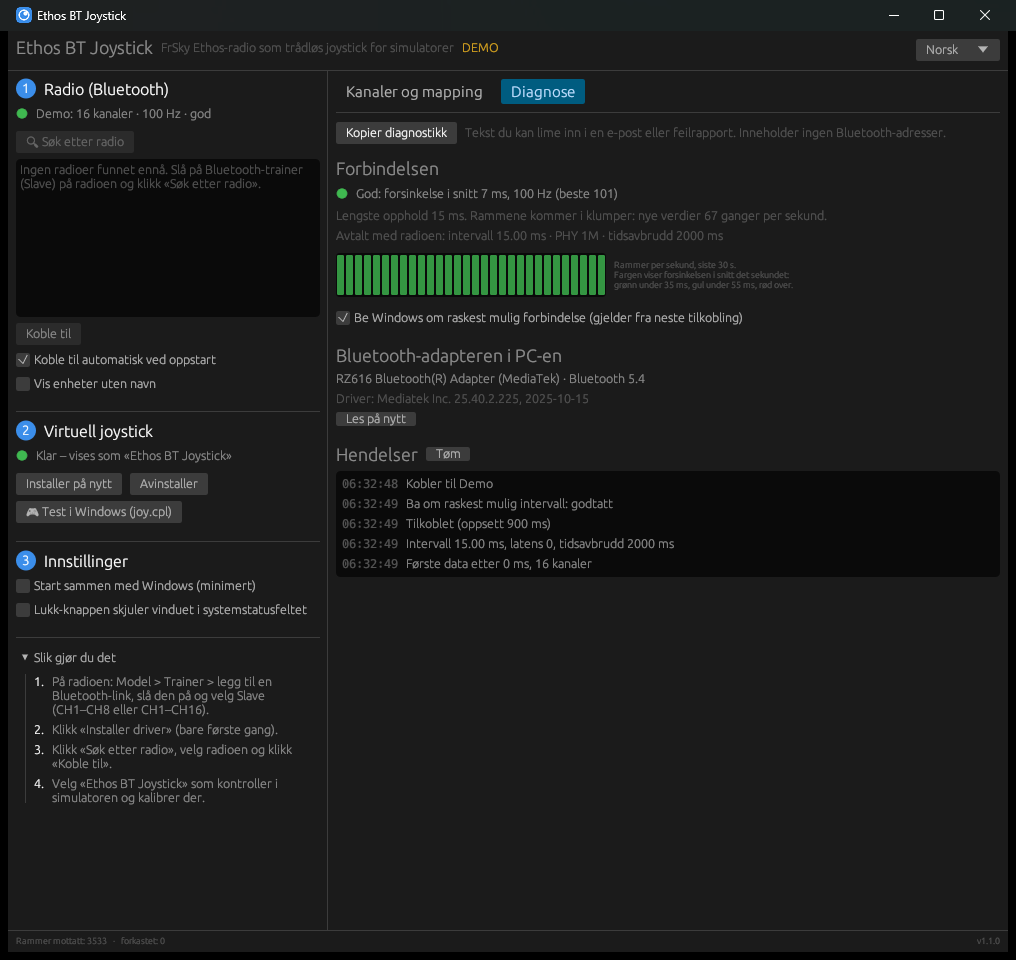
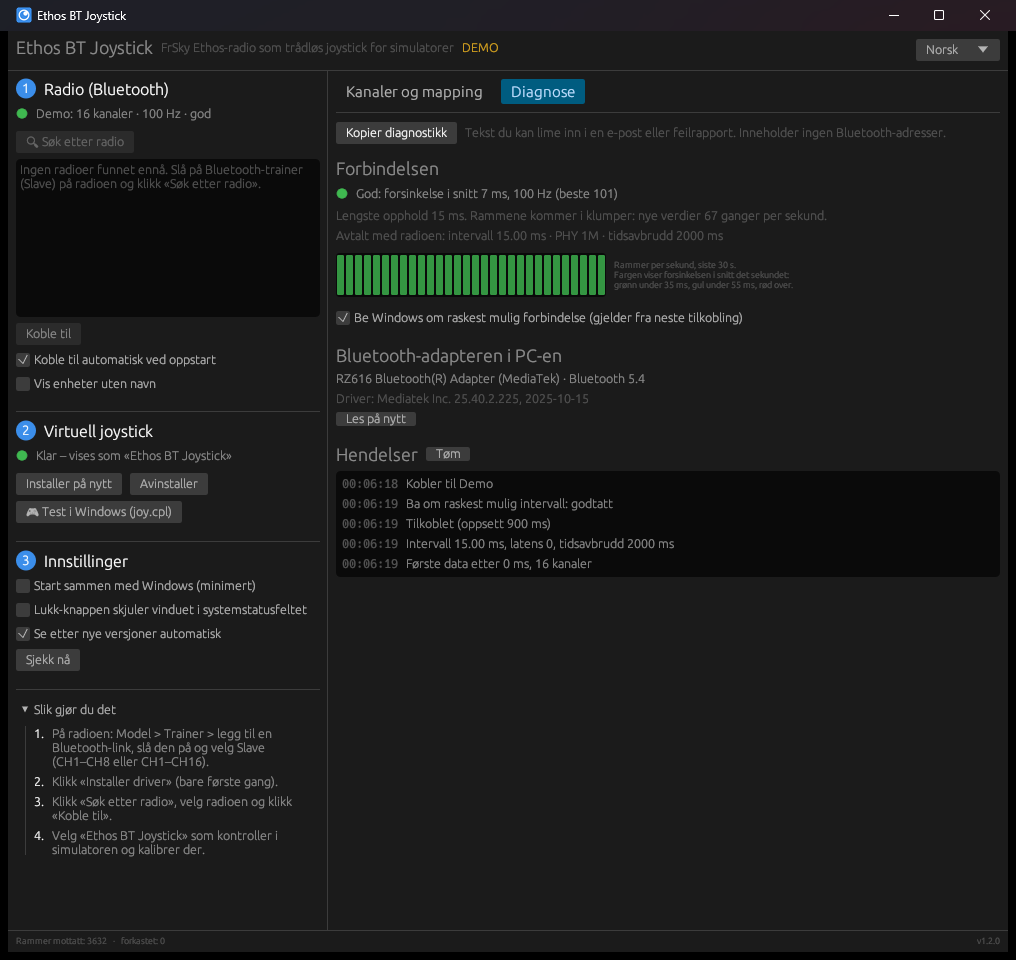
Docs: new versions, and screenshots with the new setting

Changed region(s): [[0.0, 0.6562, 0.2746, 0.9062], [0.3661, 0.5625, 0.3967, 0.5938], [0.3661, 0.5, 0.3967, 0.5312]]

diff --git a/README.md b/README.md
@@ -47,6 +47,18 @@ connection drops, it reconnects by itself.
   right-click it to exit.
 - Starting the program a second time just brings the running one to the front.
 
+### New versions
+
+The program asks GitHub for the newest published version when it starts, and then once
+a day. When there is a newer one, a line at the top of the window says so, with a
+**Download** button that opens the release page in your browser. If the window is in
+the notification area, a notification next to the icon tells you instead.
+
+Nothing is downloaded or installed by itself. The question is an ordinary web request
+to `api.github.com`; apart from the name of the program it carries nothing from your
+PC. Switch it off with **Check for new versions automatically** under *Settings* –
+**Check now** still works then.
+
 ### Diagnostics
 
 The **Diagnostics** tab shows how good the Bluetooth link is, and helps to find out why
@@ -89,7 +101,9 @@ Windows for the fastest connection** on the Diagnostics tab.
 The **Test in Windows (joy.cpl)** button opens Windows' own game controller test.
 
 Settings are stored in `%APPDATA%\EthosBtJoystick\config.json`.
-`EthosBtJoystick.exe --demo` shows the window with simulated channels, without a radio.
+`EthosBtJoystick.exe --demo` shows the window with simulated channels, without a radio;
+`--demo-update` does the same and also shows what the notice about a new version looks
+like.
 
 ## What does the driver installation do?
 
@@ -186,7 +200,7 @@ also creates a draft release with the zip and the installer attached.
 | `driver\` | The driver (C), INF file and build script. |
 | `installer\` | The Inno Setup script for the installer. |
 | `tools\` | Scripts that fetch the WDK and Inno Setup, draw the icon and package a release. |
-| `app\examples\` | Developer tools: `scan` (Bluetooth search), `hidtree` (HID lookup), `joycheck` (writes to the installed driver and reads back) and `adapterinfo` (prints the diagnostics report). |
+| `app\examples\` | Developer tools: `scan` (Bluetooth search), `hidtree` (HID lookup), `joycheck` (writes to the installed driver and reads back), `adapterinfo` (prints the diagnostics report) and `updatecheck` (asks GitHub for the newest version). |
 
 ## Troubleshooting
 

diff --git a/README.no.md b/README.no.md
@@ -46,6 +46,18 @@ kobles det til igjen av seg selv.
   avslutte.
 - Starter du programmet en gang til, kommer bare det som allerede kjører fram.
 
+### Nye versjoner
+
+Programmet spør GitHub om nyeste publiserte versjon når det starter, og deretter en
+gang i døgnet. Finnes det en nyere, står det på en linje øverst i vinduet, med en
+**Last ned**-knapp som åpner utgivelsessiden i nettleseren. Ligger vinduet i
+systemstatusfeltet, kommer det i stedet et varsel ved ikonet.
+
+Ingenting lastes ned eller installeres av seg selv. Spørsmålet er en vanlig
+nettforespørsel til `api.github.com`; bortsett fra navnet på programmet inneholder
+den ingenting fra PC-en din. Slå det av med **Se etter nye versjoner automatisk**
+under *Innstillinger* – **Sjekk nå** virker fortsatt.
+
 ### Diagnose
 
 Fanen **Diagnose** viser hvor god Bluetooth-forbindelsen er, og hjelper deg å finne ut
@@ -84,7 +96,9 @@ rundt 100 ms til rundt 30 ms. Blir en forbindelse mindre stabil av det, slår du
 Knappen **Test i Windows (joy.cpl)** åpner Windows' egen spillkontroller-test.
 
 Innstillingene lagres i `%APPDATA%\EthosBtJoystick\config.json`.
-`EthosBtJoystick.exe --demo` viser vinduet med simulerte kanaler, uten radio.
+`EthosBtJoystick.exe --demo` viser vinduet med simulerte kanaler, uten radio;
+`--demo-update` gjør det samme og viser i tillegg hvordan varselet om ny versjon ser
+ut.
 
 ## Hva gjør driverinstallasjonen?
 
@@ -182,7 +196,7 @@ tillegg et utkast til release med zip-filen og installeren vedlagt.
 | `driver\` | Driveren (C), INF-fil og byggeskript. |
 | `installer\` | Inno Setup-skriptet for installeren. |
 | `tools\` | Skript for å hente WDK og Inno Setup, tegne ikonet og pakke en release. |
-| `app\examples\` | Utviklerverktøy: `scan` (Bluetooth-søk), `hidtree` (HID-oppslag), `joycheck` (skriver til den installerte driveren og leser tilbake) og `adapterinfo` (skriver ut diagnoserapporten). |
+| `app\examples\` | Utviklerverktøy: `scan` (Bluetooth-søk), `hidtree` (HID-oppslag), `joycheck` (skriver til den installerte driveren og leser tilbake), `adapterinfo` (skriver ut diagnoserapporten) og `updatecheck` (spør GitHub om nyeste versjon). |
 
 ## Feilsøking
 
